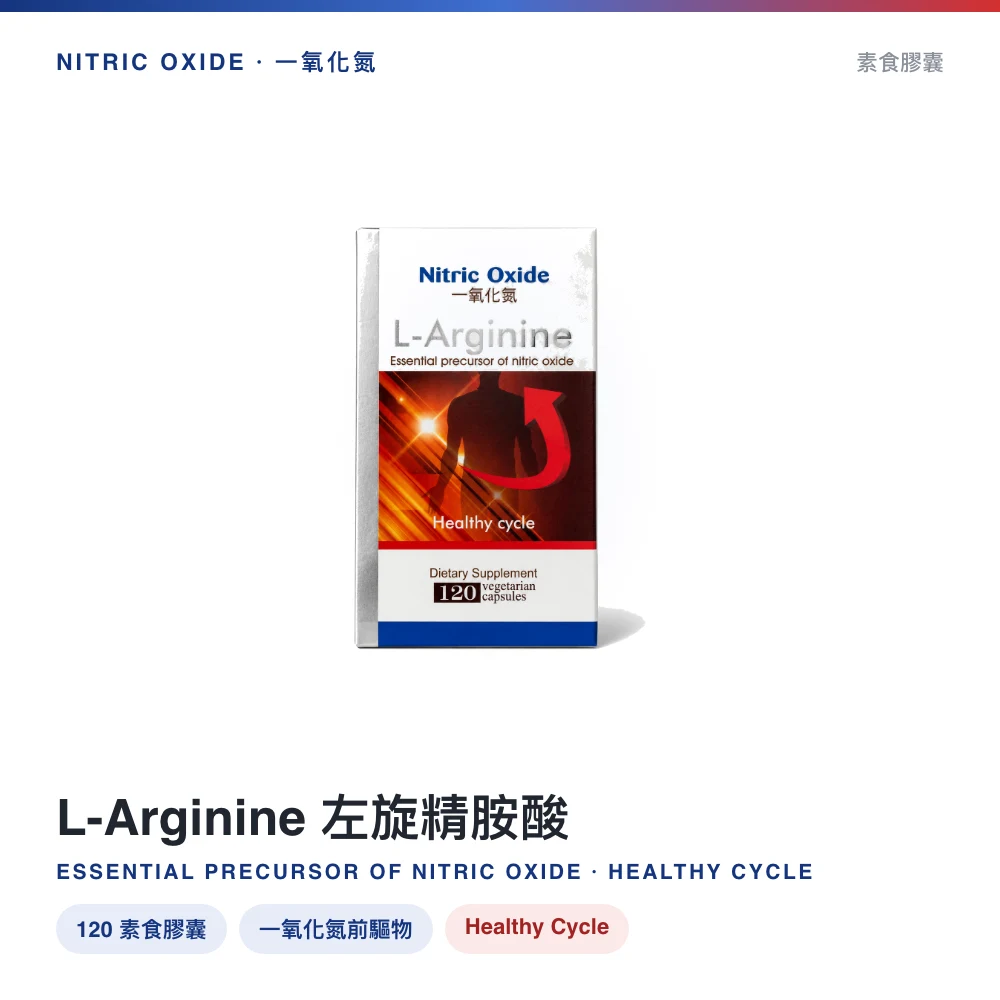
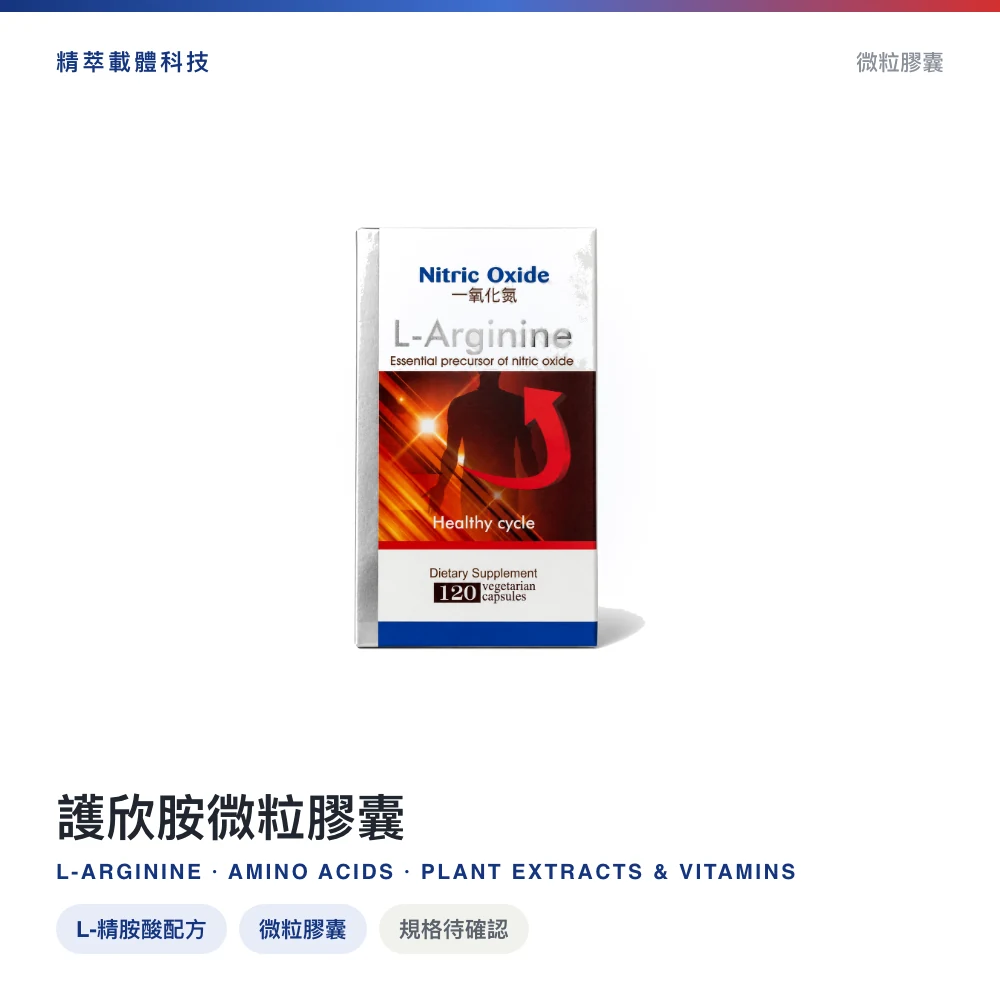
fix(ecommerce): 護欣胺說明圖改依品項資料排版，不再照抄示意盒盒面 (#182)
護欣胺的兩張說明圖先前照抄示意盒盒面：標題「L-Arginine 左旋精胺酸」、
「120 素食膠囊」、Healthy Cycle 訴求都是那顆生成示意盒自己的字，不是
本品項的資料。同一頁上方標「微粒膠囊 · 規格待確認」，圖廊聲明也寫
「文字依本品項的資料排版」，說明圖卻把未確認的 120 粒素食膠囊當規格
陳述，自相矛盾。

文案全部改取自 lib/data.ts：品名護欣胺微粒膠囊、劑型微粒膠囊、廠商
精萃載體科技、產地台灣；成分列目錄八項，規格標「待確認、以合作藥局
實際供應的包裝為準」。刪掉 Healthy Cycle 保養訴求——那是示意盒的行銷
語，不能引用。底圖沿用同一張示意盒，兩張圖重新生成後轉 webp。

diff --git a/web/scripts/ecommerce_content.py b/web/scripts/ecommerce_content.py
@@ -819,36 +819,40 @@ PRODUCTS = [
         "screens": ["main", "usp"],
     },
     {
+        # 這張的底圖是示意盒（不是護欣胺的實際包裝），文字不能照抄盒面 ——
+        # 盒面的「120 vegetarian capsules」與 Healthy Cycle 都是示意盒自己的
+        # 字。文案一律取自 lib/data.ts 的品項資料，規格照目錄標「待確認」。
         "slug": "arginine",
         "accent": "#15357e",
         "accent_deep": "#15357e",
         "bar": "linear-gradient(90deg,#15357e,#3f6fd0,#d32f2f)",
         "wash": "radial-gradient(closest-side,#f0f3fa,#ffffff)",
         "chip_bg": "#e8ecf8",
-        "eyebrow": "NITRIC OXIDE · 一氧化氮",
-        "eyebrow_r": "素食膠囊",
-        "title": "L-Arginine 左旋精胺酸",
-        "subtitle": "ESSENTIAL PRECURSOR OF NITRIC OXIDE · HEALTHY CYCLE",
+        "eyebrow": "精萃載體科技",
+        "eyebrow_r": "微粒膠囊",
+        "title": "護欣胺微粒膠囊",
+        "subtitle": "L-ARGININE · AMINO ACIDS · PLANT EXTRACTS & VITAMINS",
         "hero": "arginine",
         "hero_h": "425px",
         "chips": [
-            ("120 素食膠囊", "#e8ecf8", "#15357e"),
-            ("一氧化氮前驅物", "#e8ecf8", "#15357e"),
-            ("Healthy Cycle", "#fbeaea", "#a12222"),
+            ("L-精胺酸配方", "#e8ecf8", "#15357e"),
+            ("微粒膠囊", "#e8ecf8", "#15357e"),
+            ("規格待確認", "#f1f1ec", "#5a616b"),
         ],
         "usp_art": "arginine",
         "usp_art_w": "290px",
         "usp_tag": "L-ARGININE",
         "usp_title": "產品特色與規格",
         "usp": [
-            ("一氧化氮的必需前驅物", "左旋精胺酸為體內合成一氧化氮的前驅胺基酸"),
-            ("Healthy Cycle 循環保養", "日常補充，支持健康的循環節奏"),
-            ("120 粒素食膠囊", "素食膠囊，大包裝方便長期食用"),
+            ("L-精胺酸為主的配方", "L-精胺酸為體內合成一氧化氮的前驅胺基酸"),
+            ("胺基酸、植物萃取物與維生素", "維生素C、松樹皮萃取物、L-麩醯胺酸、綠茶萃取物、丹參萃取物、維生素E、葉酸"),
+            ("包裝規格待確認", "內容量與規格以合作藥局實際供應的包裝為準"),
         ],
         "spec_table": [
-            ("主要成分", "L-Arginine 左旋精胺酸"),
-            ("內容量", "120 vegetarian capsules"),
-            ("分類", "Dietary Supplement"),
+            ("品名", "護欣胺微粒膠囊"),
+            ("劑型", "微粒膠囊"),
+            ("廠商", "精萃載體科技股份有限公司"),
+            ("產地", "台灣"),
         ],
         "screens": ["main", "usp"],
     },
